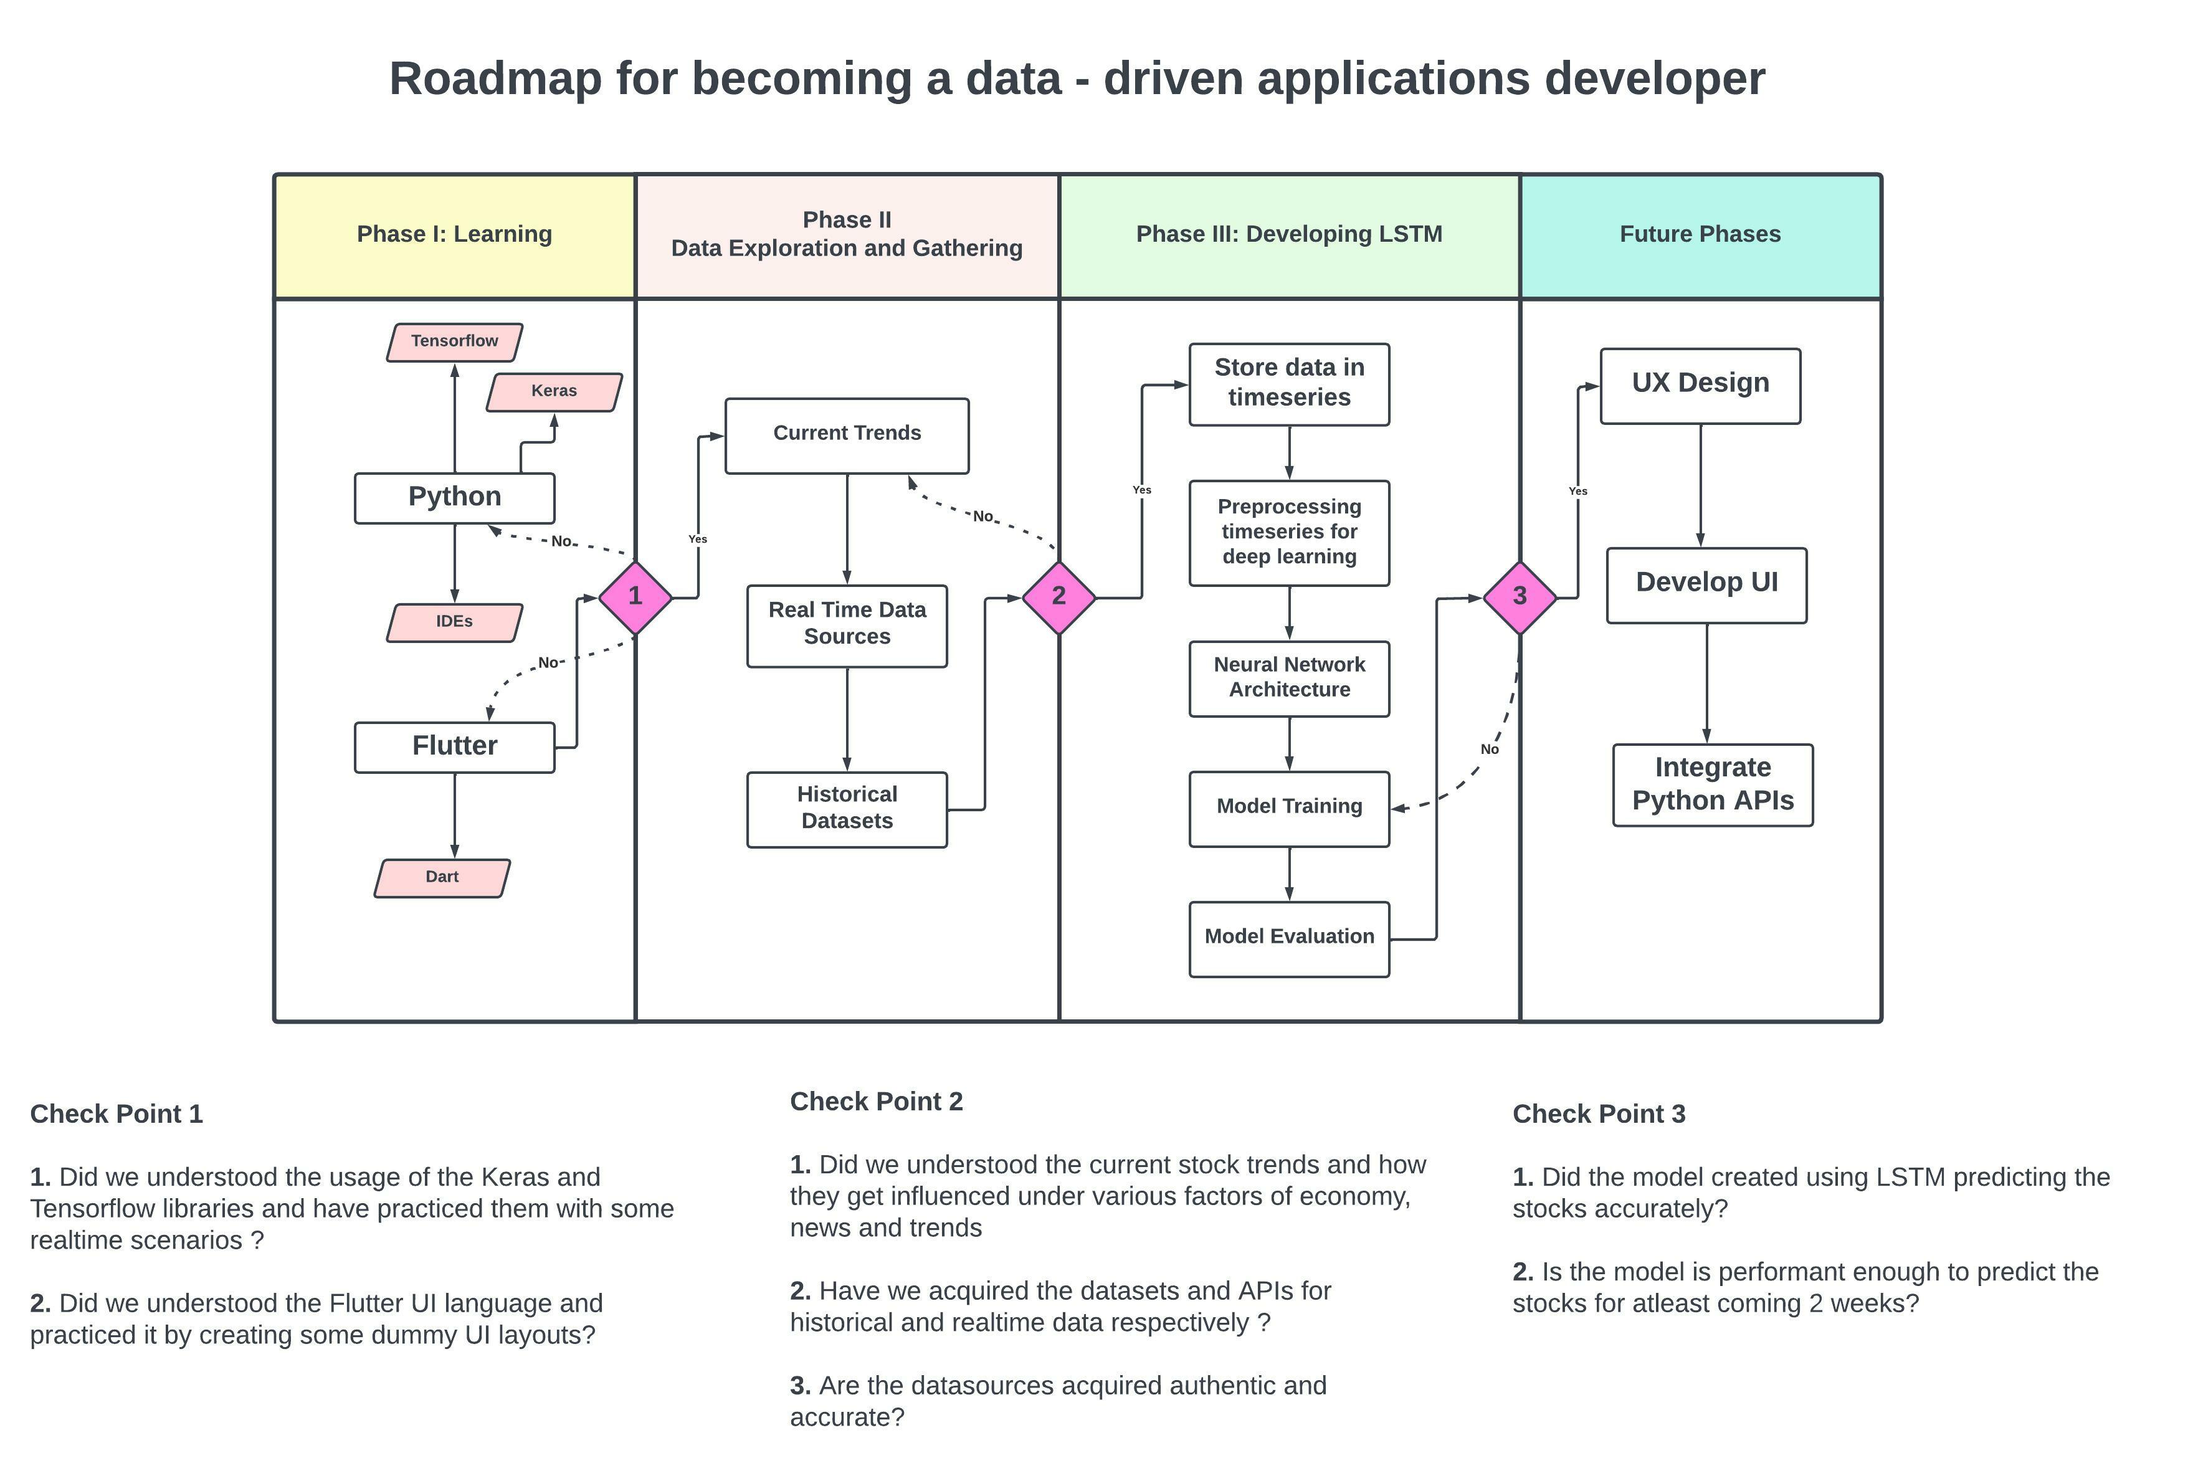
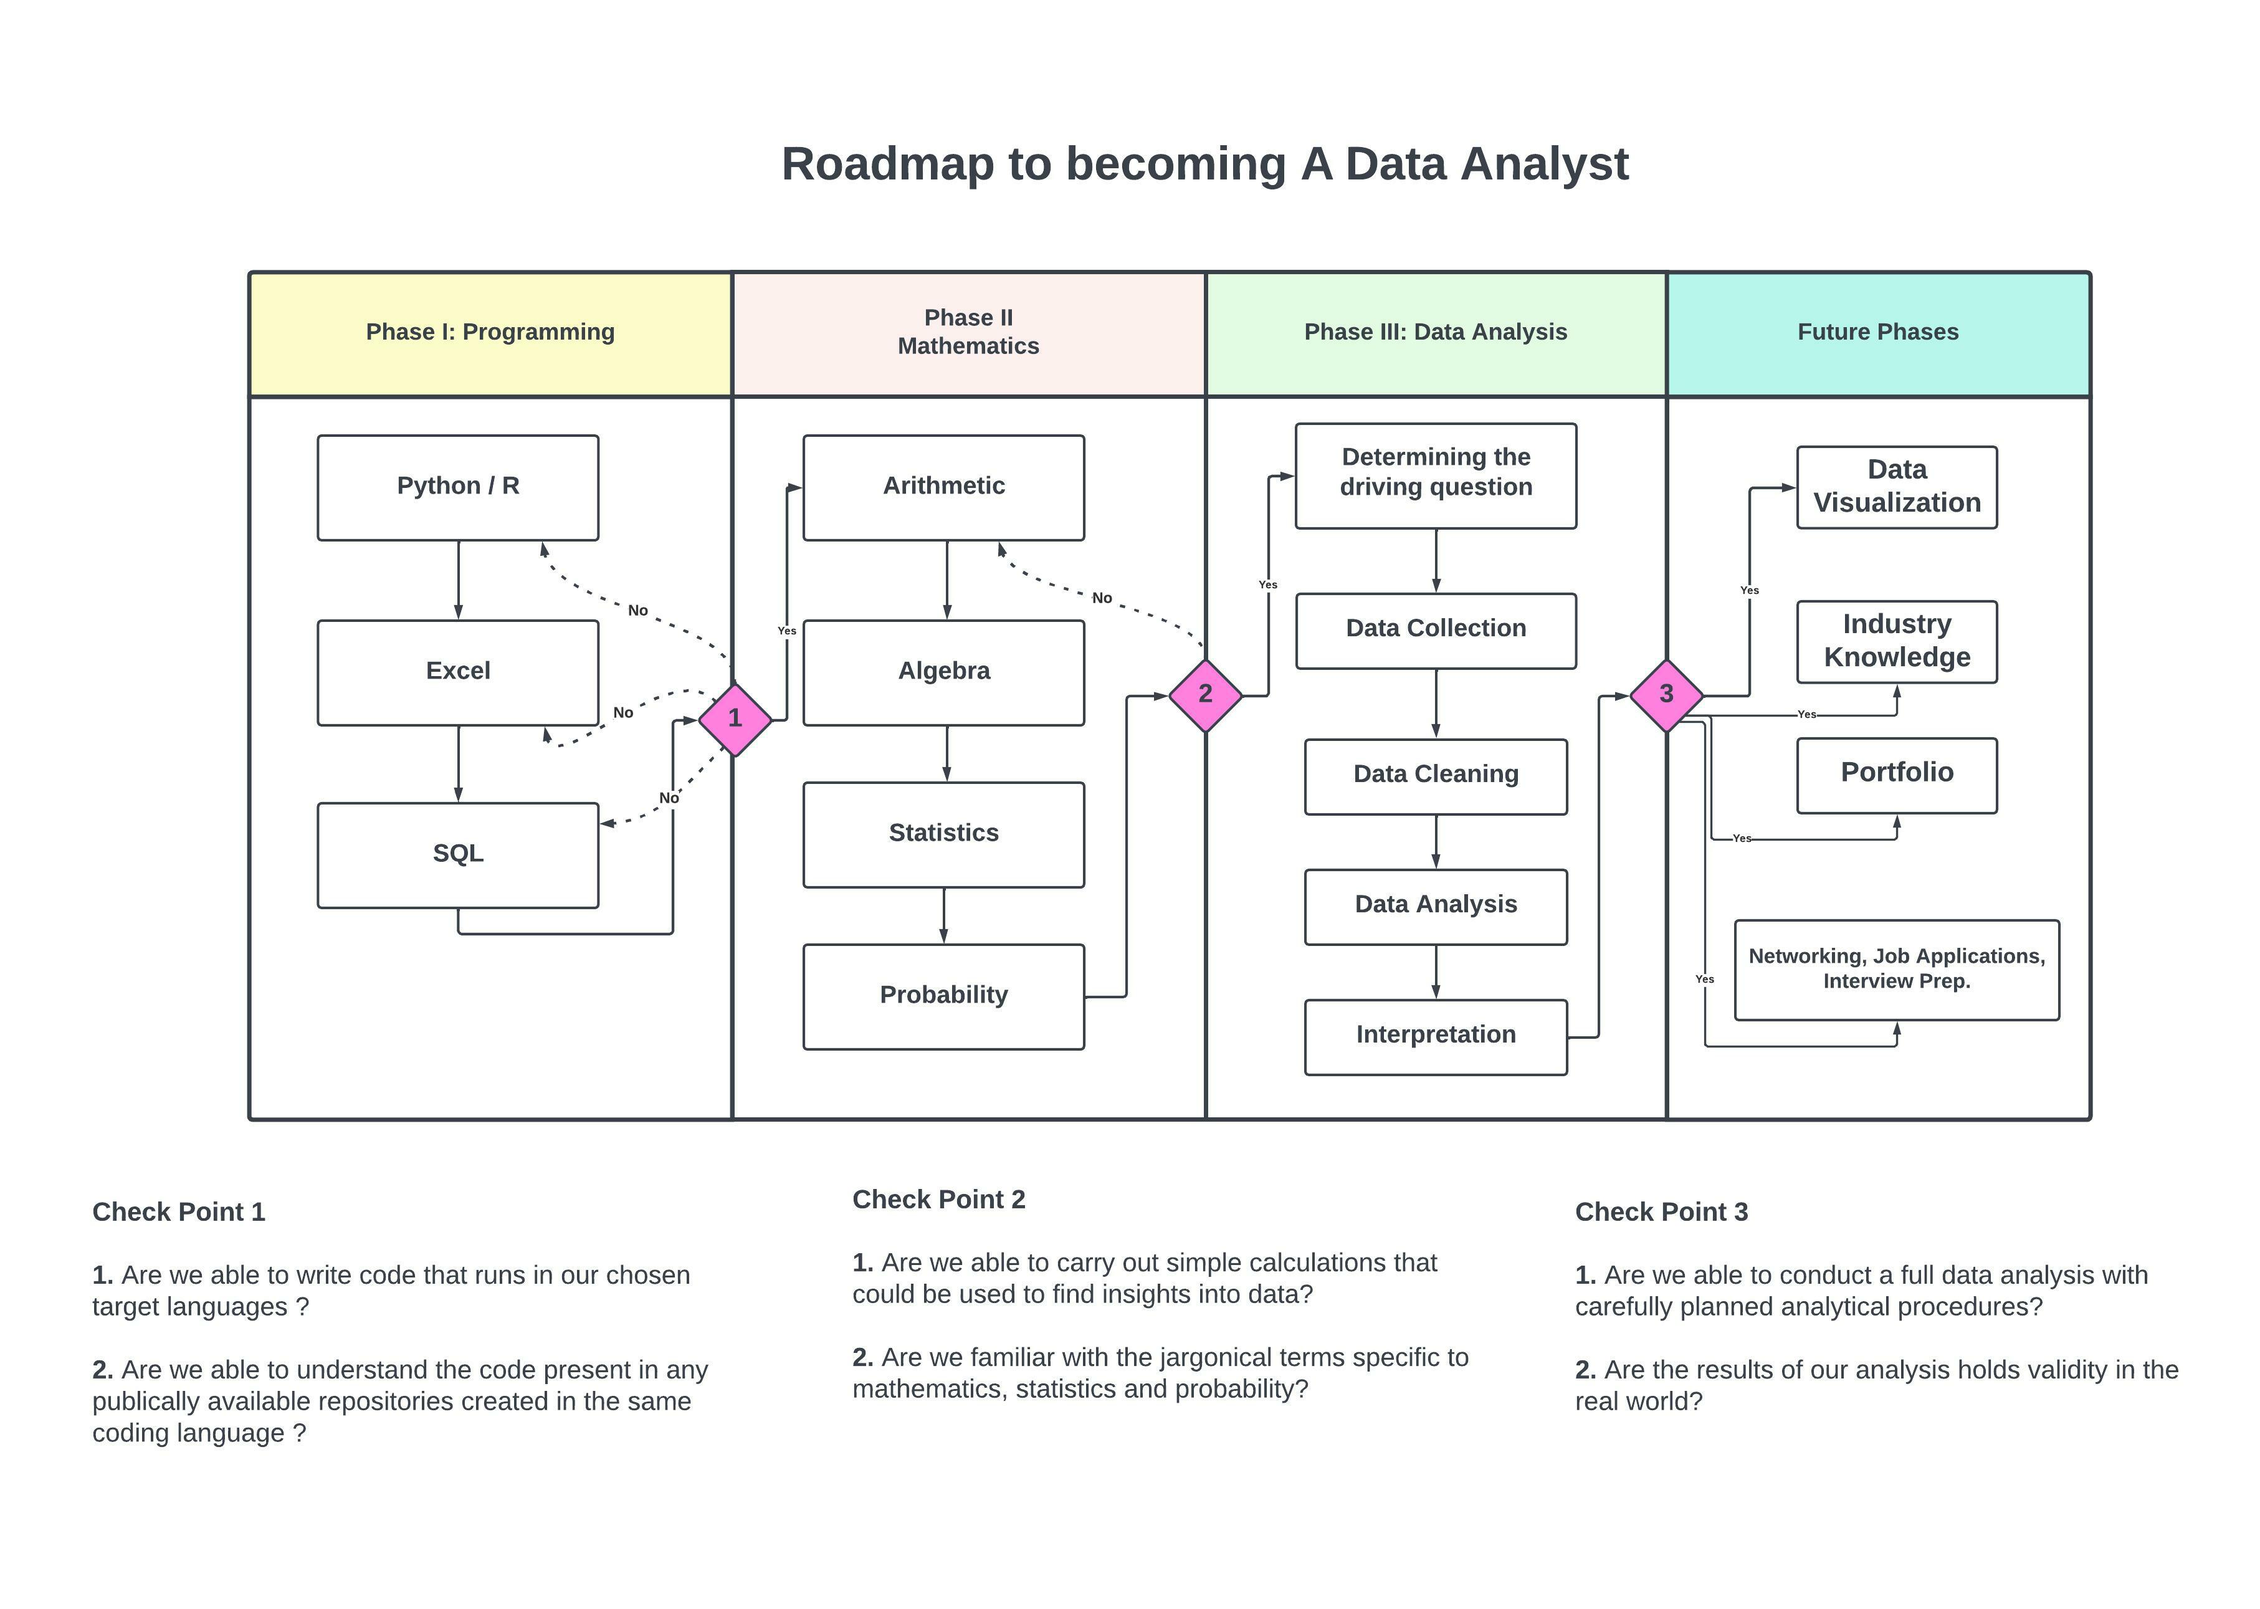
modify roadmap and about content

diff --git a/_pages/about.md b/_pages/about.md
@@ -3,4 +3,12 @@ permalink: /about
 layout: post
 title: About
 ---
+
+Becoming a Data Analyst like any other speciality requires a thorough research of topics and subjects and a step by step preparation. It is a combination of both mathematical and analytical expertise.
+
+Although not every subject need to be expertised, it certainly helps to be familiar with most of the technical aspect of each one of them. 
+
+Therefore, to help anyone who is aspiring to be a Data Analyst in future, I have created a Roadmap to  simplify their research on this specialization.
+
+
 ![](roadmap.jpg)
